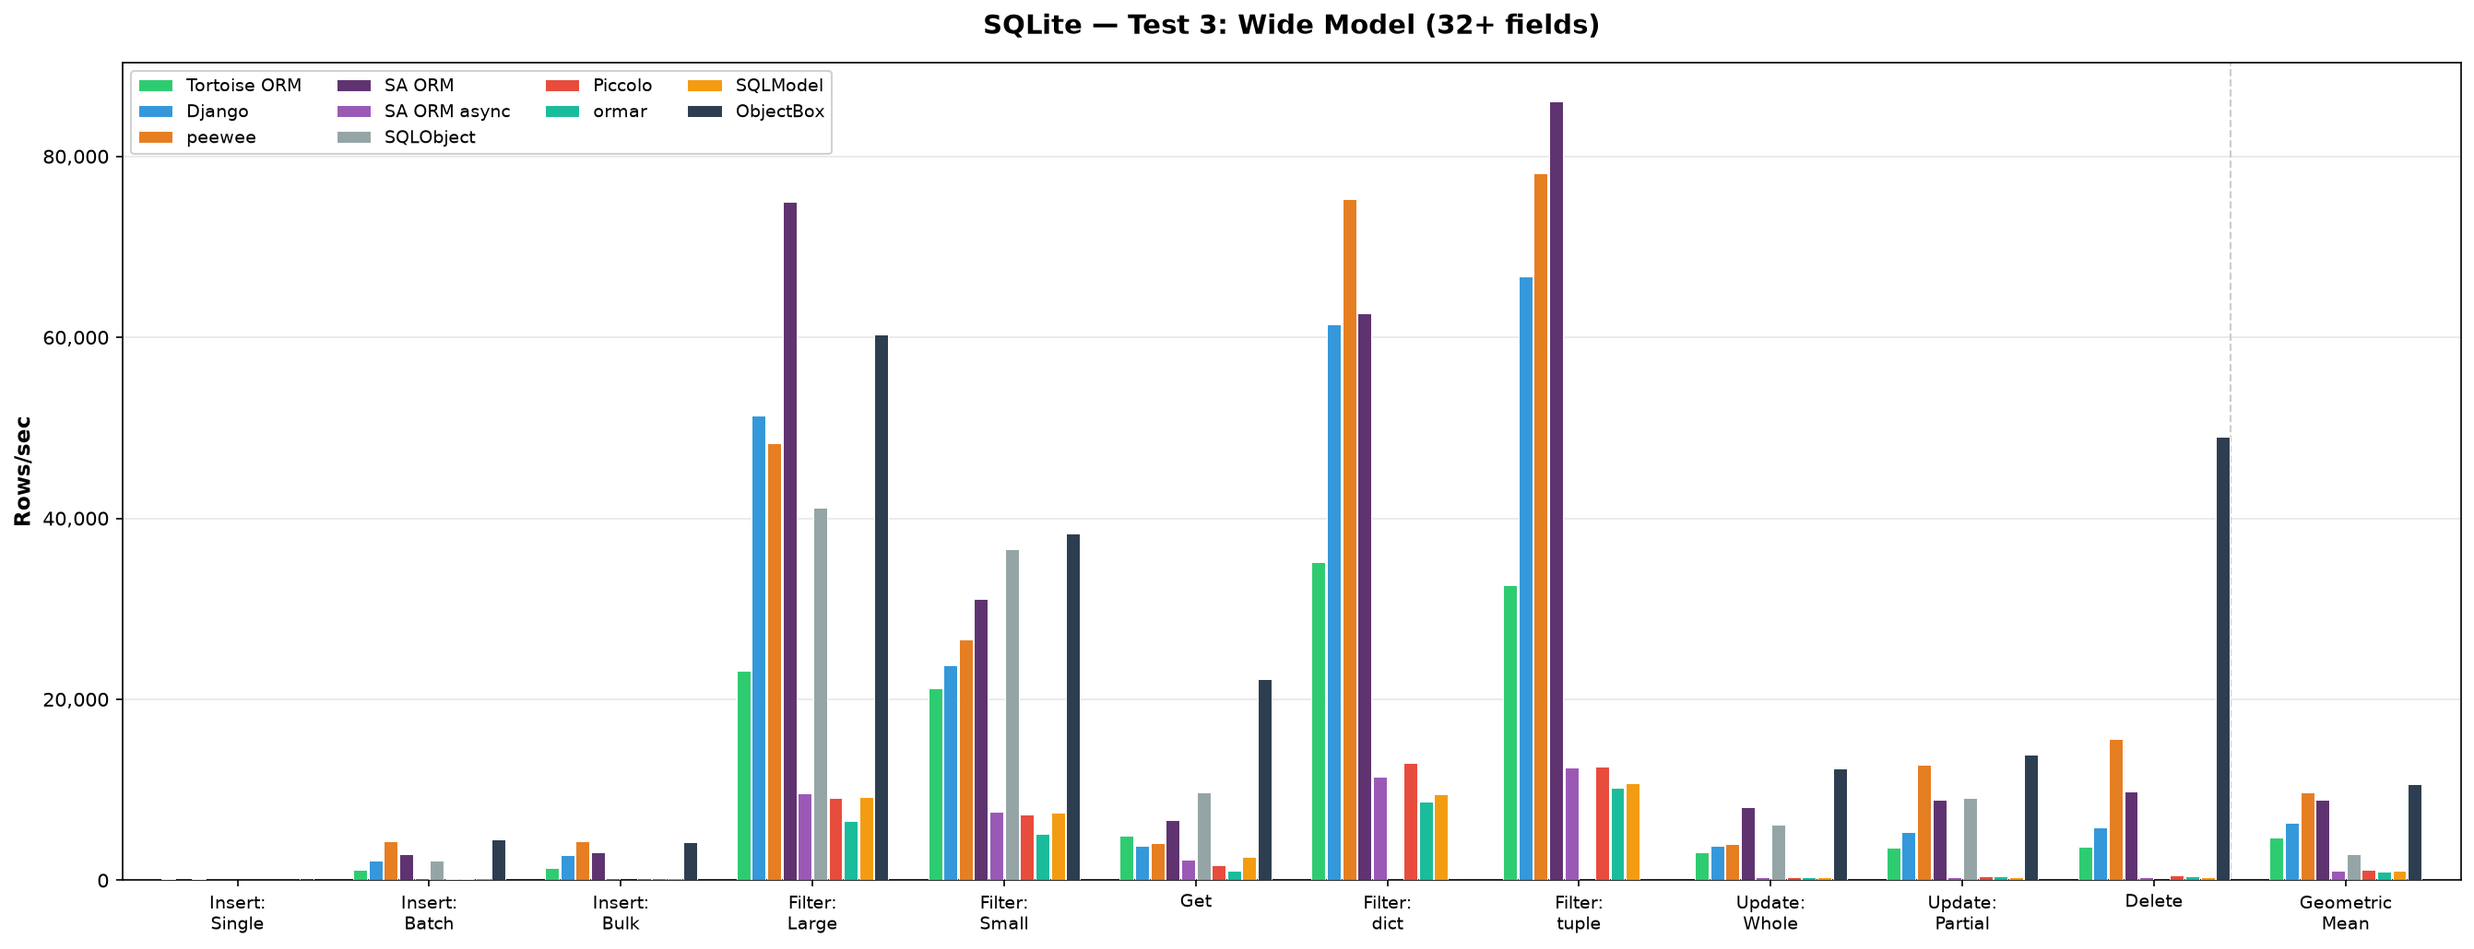
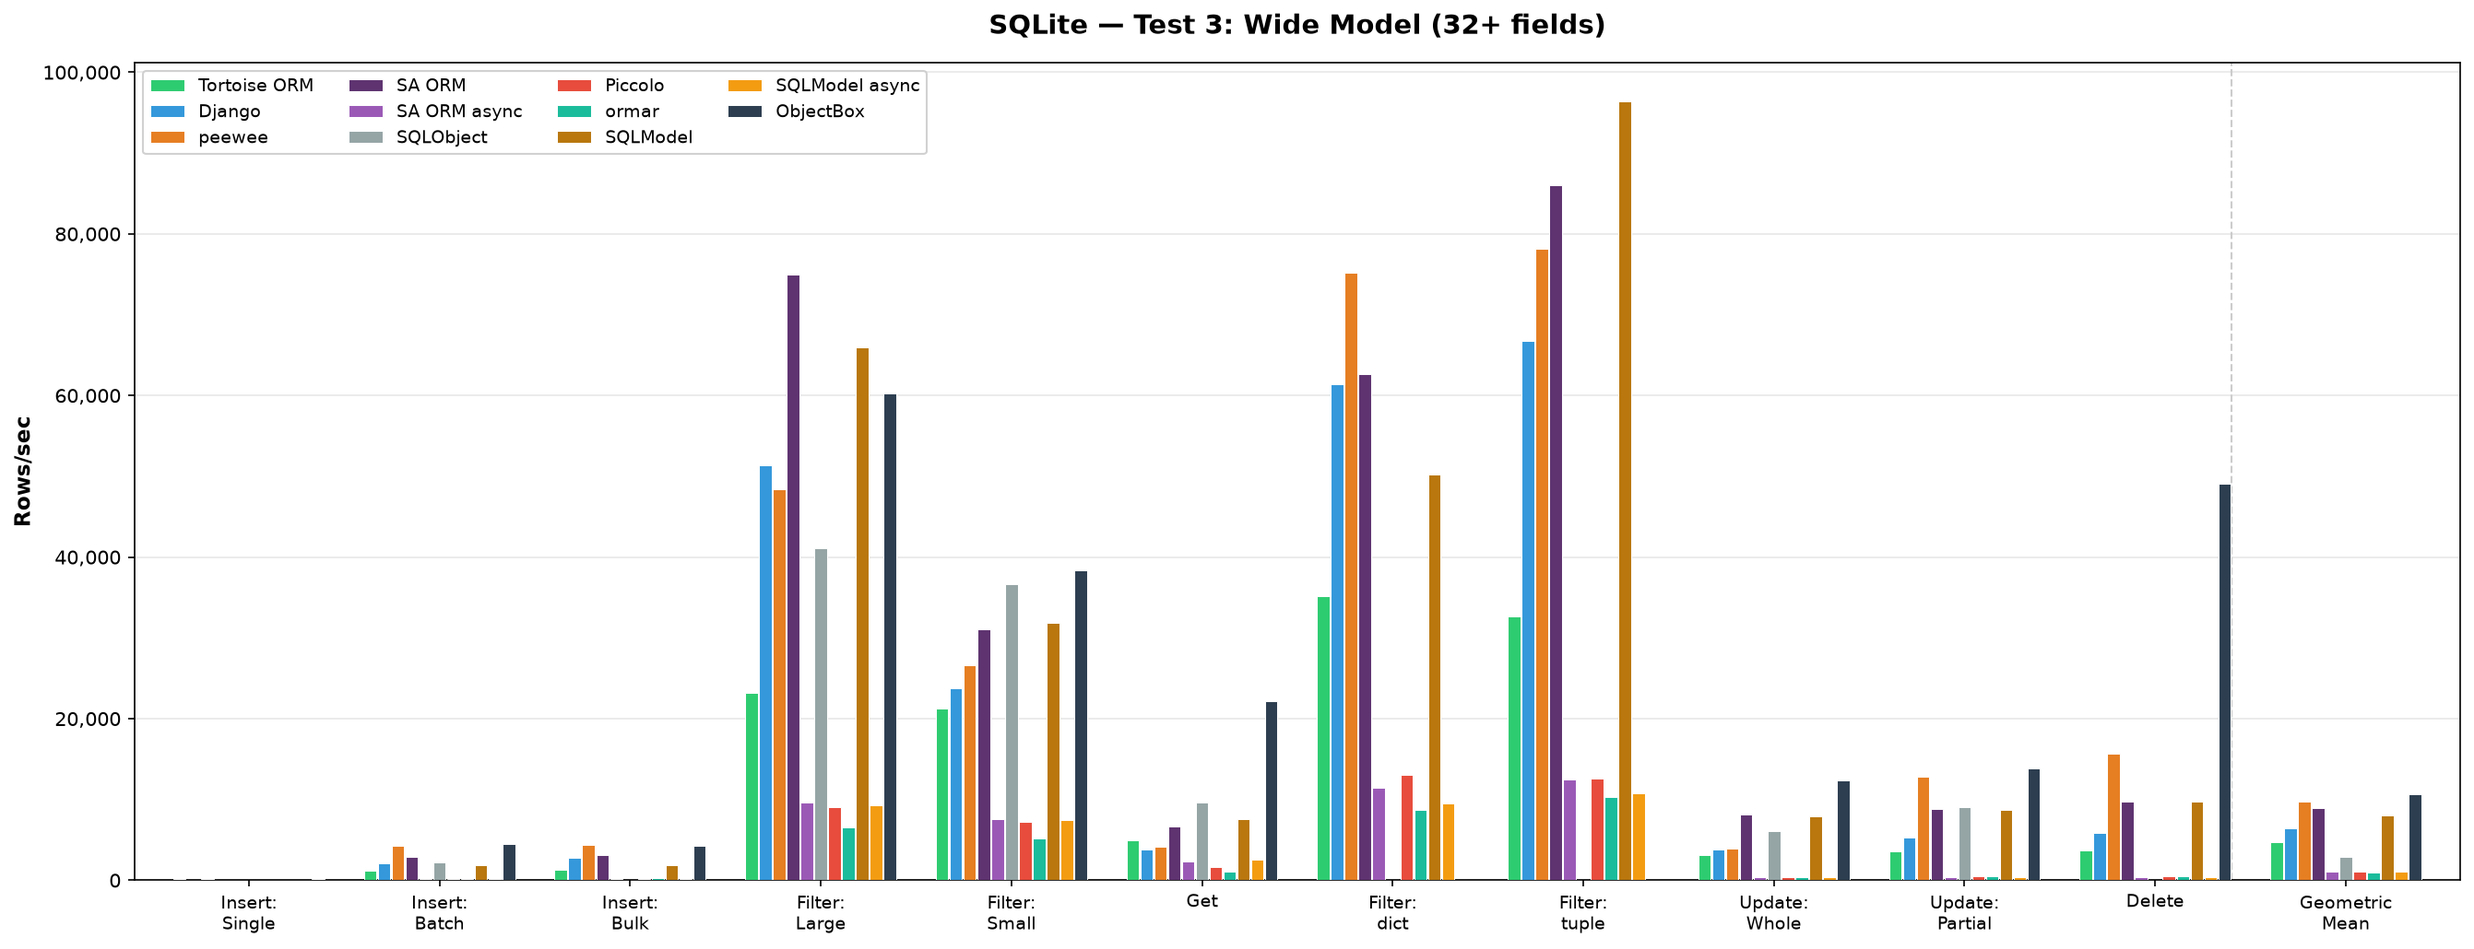
Update SQLite results with sync SQLModel
Sync SQLModel was run separately (5 runs x Tests 1-3) and merged into
the existing 5 runs before taking the medians. PostgreSQL/MySQL tables
now label the async variant "SQLModel async".

diff --git a/README.md b/README.md
@@ -14,12 +14,13 @@ Comprehensive performance benchmarks comparing popular Python ORMs across Postgr
 | [SQLObject](https://github.com/sqlobject/sqlobject) | sync | psycopg2 | mysqlclient | sqlite3 |
 | [Piccolo](https://github.com/piccolo-orm/piccolo) | async | asyncpg | — | aiosqlite |
 | [ormar](https://github.com/collerek/ormar) | async | asyncpg | aiomysql | aiosqlite |
-| [SQLModel](https://github.com/tiangolo/sqlmodel) | async | asyncpg | aiomysql | aiosqlite |
+| [SQLModel](https://github.com/tiangolo/sqlmodel) | sync | psycopg2 | mysqlclient | sqlite3 |
+| [SQLModel (async)](https://github.com/tiangolo/sqlmodel) | async | asyncpg | aiomysql | aiosqlite |
 | [ObjectBox](https://github.com/objectbox/objectbox-python) | sync | — | — | embedded (own storage engine) |
 
 > **Environment:** Python 3.14, macOS (Apple Silicon), 100 iterations per operation.
 > Piccolo does not support MySQL.
-> Sync SQLAlchemy ("SA ORM") is only in the SQLite results so far; the PostgreSQL/MySQL runs predate it.
+> Sync SQLAlchemy ("SA ORM") and sync SQLModel are only in the SQLite results so far; the PostgreSQL/MySQL runs predate them, and their "SQLModel" chart labels refer to SQLModel async.
 > ObjectBox is an embedded object database, not an ORM on top of SQL, so it is only compared in the SQLite runs. It uses the unreleased 5.0.0b1 beta with its experimental FlatBuffers codegen for writes and reads enabled (`OBX_CODEGEN=0` disables it). Differences to the SQL ORMs: Test 2 uses plain indexed ids (the Python binding has no relations), Test 3 stores decimals as strings, JSON as JSON strings (like the SQL ORMs store it as text) and leaves "nullable" columns unset (no NULL support), Filter: dict/tuple are not supported (no projection API), and Update: Partial writes the whole object. Its geometric mean covers 9 operations.
 
 ## Operations
@@ -60,7 +61,7 @@ PostgreSQL 17 in Docker. Driver: `asyncpg` for async ORMs, `psycopg2` for sync O
 
 ![PostgreSQL Test 1](images/pg_test1.png)
 
-| Operation | Django | peewee | SA ORM async | SQLObject | Tortoise ORM | Piccolo | ormar | SQLModel | Best |
+| Operation | Django | peewee | SA ORM async | SQLObject | Tortoise ORM | Piccolo | ormar | SQLModel async | Best |
 |-----------|--------|--------|--------------|-----------|--------------|---------|-------|----------|------|
 | Insert: Single | 776 | 651 | 584 | 699 | **3,455** | 3,240 | 283 | 540 | Tortoise ORM |
 | Insert: Batch | 2,069 | 2,418 | 1,154 | 1,575 | **14,033** | 12,138 | 1,048 | 1,081 | Tortoise ORM |
@@ -79,7 +80,7 @@ PostgreSQL 17 in Docker. Driver: `asyncpg` for async ORMs, `psycopg2` for sync O
 
 ![PostgreSQL Test 2](images/pg_test2.png)
 
-| Operation | Django | peewee | SA ORM async | SQLObject | Tortoise ORM | Piccolo | ormar | SQLModel | Best |
+| Operation | Django | peewee | SA ORM async | SQLObject | Tortoise ORM | Piccolo | ormar | SQLModel async | Best |
 |-----------|--------|--------|--------------|-----------|--------------|---------|-------|----------|------|
 | Insert: Single | 765 | 822 | 564 | 517 | **3,350** | 3,075 | 264 | 521 | Tortoise ORM |
 | Insert: Batch | 2,654 | 2,477 | 1,184 | 1,140 | **12,355** | 8,785 | 1,067 | 1,061 | Tortoise ORM |
@@ -98,7 +99,7 @@ PostgreSQL 17 in Docker. Driver: `asyncpg` for async ORMs, `psycopg2` for sync O
 
 ![PostgreSQL Test 3](images/pg_test3.png)
 
-| Operation | Django | peewee | SA ORM async | SQLObject | Tortoise ORM | Piccolo | ormar | SQLModel | Best |
+| Operation | Django | peewee | SA ORM async | SQLObject | Tortoise ORM | Piccolo | ormar | SQLModel async | Best |
 |-----------|--------|--------|--------------|-----------|--------------|---------|-------|----------|------|
 | Insert: Single | 660 | 712 | 555 | 683 | 1,560 | **2,761** | 177 | 507 | Piccolo |
 | Insert: Batch | 1,580 | 1,338 | 1,137 | 1,280 | **8,077** | 4,627 | 542 | 953 | Tortoise ORM |
@@ -127,7 +128,7 @@ MySQL 8 in Docker. Driver: `asyncmy` for Tortoise, `aiomysql` for SA async / orm
 
 ![MySQL Test 1](images/mysql_test1.png)
 
-| Operation | Django | peewee | SA ORM async | SQLObject | Tortoise ORM | ormar | SQLModel | Best |
+| Operation | Django | peewee | SA ORM async | SQLObject | Tortoise ORM | ormar | SQLModel async | Best |
 |-----------|--------|--------|--------------|-----------|--------------|-------|----------|------|
 | Insert: Single | 460 | 475 | 1,260 | 386 | **2,226** | 1,218 | 1,198 | Tortoise ORM |
 | Insert: Batch | 1,685 | 3,403 | 4,425 | 1,743 | **10,352** | 3,903 | 3,639 | Tortoise ORM |
@@ -146,7 +147,7 @@ MySQL 8 in Docker. Driver: `asyncmy` for Tortoise, `aiomysql` for SA async / orm
 
 ![MySQL Test 2](images/mysql_test2.png)
 
-| Operation | Django | peewee | SA ORM async | SQLObject | Tortoise ORM | ormar | SQLModel | Best |
+| Operation | Django | peewee | SA ORM async | SQLObject | Tortoise ORM | ormar | SQLModel async | Best |
 |-----------|--------|--------|--------------|-----------|--------------|-------|----------|------|
 | Insert: Single | 477 | 525 | 1,173 | 399 | **1,777** | 952 | 1,063 | Tortoise ORM |
 | Insert: Batch | 2,458 | 3,374 | 4,873 | 1,825 | **8,299** | 3,278 | 3,853 | Tortoise ORM |
@@ -165,7 +166,7 @@ MySQL 8 in Docker. Driver: `asyncmy` for Tortoise, `aiomysql` for SA async / orm
 
 ![MySQL Test 3](images/mysql_test3.png)
 
-| Operation | Django | peewee | SA ORM async | SQLObject | Tortoise ORM | ormar | SQLModel | Best |
+| Operation | Django | peewee | SA ORM async | SQLObject | Tortoise ORM | ormar | SQLModel async | Best |
 |-----------|--------|--------|--------------|-----------|--------------|-------|----------|------|
 | Insert: Single | 368 | 366 | 1,318 | 342 | **1,331** | 703 | 1,071 | Tortoise ORM |
 | Insert: Batch | 1,583 | 2,076 | 4,225 | 1,372 | **4,384** | 860 | 2,405 | Tortoise ORM |
@@ -196,58 +197,58 @@ SQLite on local filesystem (`/tmp/db.sqlite3`). This benchmark is inherently sin
 
 ![SQLite Test 1](images/sqlite_test1.png)
 
-| Operation | Django | peewee | SA ORM | SA ORM async | SQLObject | Tortoise ORM | Piccolo | ormar | SQLModel | ObjectBox | Best |
-|-----------|--------|--------|--------|--------------|-----------|--------------|---------|-------|----------|-----------|------|
-| Insert: Single | 53 | 158 | 52 | 49 | 53 | 157 | 49 | 46 | 47 | **239** | ObjectBox |
-| Insert: Batch | 2,772 | 5,825 | 3,098 | 218 | 2,750 | 1,378 | 180 | 217 | 210 | **8,014** | ObjectBox |
-| Insert: Bulk | 3,326 | 7,367 | 3,370 | 219 | — | 1,519 | 220 | 278 | 211 | **10,394** | ObjectBox |
-| Filter: Large | 168,124 | **223,398** | 184,779 | 36,637 | 81,378 | 49,837 | 41,350 | 21,943 | 32,064 | 215,306 | peewee |
-| Filter: Small | 57,232 | 84,363 | 54,789 | 19,226 | 67,073 | 46,862 | 17,673 | 12,486 | 17,518 | **141,318** | ObjectBox |
-| Get | 7,217 | 12,060 | 8,395 | 3,537 | 14,983 | 8,655 | 2,396 | 1,495 | 3,158 | **68,900** | ObjectBox |
-| Filter: dict | 240,416 | **317,831** | 171,952 | 43,073 | — | 96,732 | 52,798 | 32,928 | 38,019 | — | peewee |
-| Filter: tuple | 248,679 | **316,902** | 275,307 | 45,648 | — | 90,995 | 51,600 | 35,123 | 48,002 | — | peewee |
-| Update: Whole | 5,480 | 8,567 | 8,658 | 384 | 6,218 | 3,242 | 536 | 448 | 384 | **15,724** | ObjectBox |
-| Update: Partial | 5,801 | 13,429 | 9,410 | 384 | 9,320 | 3,693 | 536 | 448 | 384 | **30,269** | ObjectBox |
-| Delete | 6,050 | 15,681 | 10,010 | 385 | 53 | 3,827 | 539 | 452 | 388 | **63,098** | ObjectBox |
-| **Geometric Mean** | 11,318 | 20,582 | 13,001 | 1,800 | 3,721 | 7,194 | 1,937 | 1,546 | 1,718 | **22,092** | **ObjectBox** |
+| Operation | Django | peewee | SA ORM | SA ORM async | SQLObject | Tortoise ORM | Piccolo | ormar | SQLModel | SQLModel async | ObjectBox | Best |
+|-----------|--------|--------|--------|--------------|-----------|--------------|---------|-------|----------|----------------|-----------|------|
+| Insert: Single | 53 | 158 | 52 | 49 | 53 | 157 | 49 | 46 | 51 | 47 | **239** | ObjectBox |
+| Insert: Batch | 2,772 | 5,825 | 3,098 | 218 | 2,750 | 1,378 | 180 | 217 | 2,400 | 210 | **8,014** | ObjectBox |
+| Insert: Bulk | 3,326 | 7,367 | 3,370 | 219 | — | 1,519 | 220 | 278 | 2,411 | 211 | **10,394** | ObjectBox |
+| Filter: Large | 168,124 | **223,398** | 184,779 | 36,637 | 81,378 | 49,837 | 41,350 | 21,943 | 178,603 | 32,064 | 215,306 | peewee |
+| Filter: Small | 57,232 | 84,363 | 54,789 | 19,226 | 67,073 | 46,862 | 17,673 | 12,486 | 54,030 | 17,518 | **141,318** | ObjectBox |
+| Get | 7,217 | 12,060 | 8,395 | 3,537 | 14,983 | 8,655 | 2,396 | 1,495 | 9,616 | 3,158 | **68,900** | ObjectBox |
+| Filter: dict | 240,416 | **317,831** | 171,952 | 43,073 | — | 96,732 | 52,798 | 32,928 | 136,220 | 38,019 | — | peewee |
+| Filter: tuple | 248,679 | 316,902 | 275,307 | 45,648 | — | 90,995 | 51,600 | 35,123 | **386,026** | 48,002 | — | SQLModel |
+| Update: Whole | 5,480 | 8,567 | 8,658 | 384 | 6,218 | 3,242 | 536 | 448 | 8,239 | 384 | **15,724** | ObjectBox |
+| Update: Partial | 5,801 | 13,429 | 9,410 | 384 | 9,320 | 3,693 | 536 | 448 | 8,956 | 384 | **30,269** | ObjectBox |
+| Delete | 6,050 | 15,681 | 10,010 | 385 | 53 | 3,827 | 539 | 452 | 9,611 | 388 | **63,098** | ObjectBox |
+| **Geometric Mean** | 11,318 | 20,582 | 13,001 | 1,800 | 3,721 | 7,194 | 1,937 | 1,546 | 12,360 | 1,718 | **22,092** | **ObjectBox** |
 
 ### Test 2: FK Relations
 
 ![SQLite Test 2](images/sqlite_test2.png)
 
-| Operation | Django | peewee | SA ORM | SA ORM async | SQLObject | Tortoise ORM | Piccolo | ormar | SQLModel | ObjectBox | Best |
-|-----------|--------|--------|--------|--------------|-----------|--------------|---------|-------|----------|-----------|------|
-| Insert: Single | 53 | 157 | 52 | 47 | 53 | 157 | 49 | 47 | 47 | **231** | ObjectBox |
-| Insert: Batch | 2,701 | 5,756 | 2,741 | 216 | 2,703 | 1,362 | 180 | 216 | 207 | **7,498** | ObjectBox |
-| Insert: Bulk | 3,283 | 7,392 | 2,978 | 217 | — | 1,520 | 218 | 397 | 210 | **9,715** | ObjectBox |
-| Filter: Large | 157,143 | 196,017 | 149,434 | 31,279 | 78,336 | 49,446 | 38,075 | 19,964 | 26,665 | **207,817** | ObjectBox |
-| Filter: Small | 50,730 | 82,186 | 41,612 | 17,365 | 66,118 | 44,013 | 18,150 | 11,223 | 15,023 | **131,230** | ObjectBox |
-| Get | 6,868 | 10,950 | 6,928 | 3,136 | 14,730 | 9,254 | 2,339 | 1,382 | 3,046 | **66,318** | ObjectBox |
-| Filter: dict | 215,771 | **291,237** | 140,742 | 41,473 | — | 107,600 | 54,752 | 32,073 | 37,116 | — | peewee |
-| Filter: tuple | 223,660 | **290,551** | 204,086 | 44,436 | — | 99,757 | 50,484 | 32,249 | 46,358 | — | peewee |
-| Update: Whole | 5,328 | 8,096 | 7,919 | 382 | 6,214 | 3,367 | 455 | 390 | 385 | **15,674** | ObjectBox |
-| Update: Partial | 5,789 | 13,200 | 8,573 | 383 | 9,531 | 3,798 | 455 | 448 | 384 | **30,200** | ObjectBox |
-| Delete | 2,003 | 15,664 | 2,163 | 293 | 53 | 3,735 | 456 | 451 | 385 | **60,834** | ObjectBox |
-| **Geometric Mean** | 9,757 | 19,634 | 9,768 | 1,679 | 3,686 | 7,344 | 1,839 | 1,522 | 1,648 | **21,231** | **ObjectBox** |
+| Operation | Django | peewee | SA ORM | SA ORM async | SQLObject | Tortoise ORM | Piccolo | ormar | SQLModel | SQLModel async | ObjectBox | Best |
+|-----------|--------|--------|--------|--------------|-----------|--------------|---------|-------|----------|----------------|-----------|------|
+| Insert: Single | 53 | 157 | 52 | 47 | 53 | 157 | 49 | 47 | 52 | 47 | **231** | ObjectBox |
+| Insert: Batch | 2,701 | 5,756 | 2,741 | 216 | 2,703 | 1,362 | 180 | 216 | 2,350 | 207 | **7,498** | ObjectBox |
+| Insert: Bulk | 3,283 | 7,392 | 2,978 | 217 | — | 1,520 | 218 | 397 | 2,378 | 210 | **9,715** | ObjectBox |
+| Filter: Large | 157,143 | 196,017 | 149,434 | 31,279 | 78,336 | 49,446 | 38,075 | 19,964 | 168,302 | 26,665 | **207,817** | ObjectBox |
+| Filter: Small | 50,730 | 82,186 | 41,612 | 17,365 | 66,118 | 44,013 | 18,150 | 11,223 | 49,403 | 15,023 | **131,230** | ObjectBox |
+| Get | 6,868 | 10,950 | 6,928 | 3,136 | 14,730 | 9,254 | 2,339 | 1,382 | 9,157 | 3,046 | **66,318** | ObjectBox |
+| Filter: dict | 215,771 | **291,237** | 140,742 | 41,473 | — | 107,600 | 54,752 | 32,073 | 129,800 | 37,116 | — | peewee |
+| Filter: tuple | 223,660 | 290,551 | 204,086 | 44,436 | — | 99,757 | 50,484 | 32,249 | **383,977** | 46,358 | — | SQLModel |
+| Update: Whole | 5,328 | 8,096 | 7,919 | 382 | 6,214 | 3,367 | 455 | 390 | 8,093 | 385 | **15,674** | ObjectBox |
+| Update: Partial | 5,789 | 13,200 | 8,573 | 383 | 9,531 | 3,798 | 455 | 448 | 11,573 | 384 | **30,200** | ObjectBox |
+| Delete | 2,003 | 15,664 | 2,163 | 293 | 53 | 3,735 | 456 | 451 | 9,928 | 385 | **60,834** | ObjectBox |
+| **Geometric Mean** | 9,757 | 19,634 | 9,768 | 1,679 | 3,686 | 7,344 | 1,839 | 1,522 | 12,353 | 1,648 | **21,231** | **ObjectBox** |
 
 ### Test 3: Wide Model (32+ fields)
 
 ![SQLite Test 3](images/sqlite_test3.png)
 
-| Operation | Django | peewee | SA ORM | SA ORM async | SQLObject | Tortoise ORM | Piccolo | ormar | SQLModel | ObjectBox | Best |
-|-----------|--------|--------|--------|--------------|-----------|--------------|---------|-------|----------|-----------|------|
-| Insert: Single | 52 | 155 | 53 | 49 | 53 | 155 | 48 | 44 | 48 | **203** | ObjectBox |
-| Insert: Batch | 2,139 | 4,270 | 2,842 | 216 | 2,209 | 1,157 | 179 | 146 | 199 | **4,540** | ObjectBox |
-| Insert: Bulk | 2,820 | **4,344** | 3,135 | 217 | — | 1,321 | 213 | 258 | 202 | 4,254 | peewee |
-| Filter: Large | 51,379 | 48,347 | **74,935** | 9,642 | 41,141 | 23,165 | 9,109 | 6,545 | 9,243 | 60,274 | SA ORM |
-| Filter: Small | 23,787 | 26,582 | 31,058 | 7,568 | 36,644 | 21,260 | 7,274 | 5,126 | 7,465 | **38,353** | ObjectBox |
-| Get | 3,839 | 4,115 | 6,690 | 2,327 | 9,681 | 4,905 | 1,694 | 1,030 | 2,579 | **22,198** | ObjectBox |
-| Filter: dict | 61,394 | **75,234** | 62,682 | 11,453 | — | 35,142 | 13,020 | 8,723 | 9,532 | — | peewee |
-| Filter: tuple | 66,704 | 78,157 | **86,057** | 12,424 | — | 32,615 | 12,584 | 10,257 | 10,777 | — | SA ORM |
-| Update: Whole | 3,834 | 3,975 | 8,121 | 384 | 6,119 | 3,111 | 394 | 383 | 383 | **12,323** | ObjectBox |
-| Update: Partial | 5,337 | 12,805 | 8,859 | 381 | 9,058 | 3,569 | 451 | 449 | 382 | **13,844** | ObjectBox |
-| Delete | 5,863 | 15,659 | 9,788 | 381 | 53 | 3,669 | 537 | 452 | 380 | **49,045** | ObjectBox |
-| **Geometric Mean** | 6,392 | 9,695 | 8,899 | 1,107 | 2,899 | 4,733 | 1,113 | 919 | 1,063 | **10,596** | **ObjectBox** |
+| Operation | Django | peewee | SA ORM | SA ORM async | SQLObject | Tortoise ORM | Piccolo | ormar | SQLModel | SQLModel async | ObjectBox | Best |
+|-----------|--------|--------|--------|--------------|-----------|--------------|---------|-------|----------|----------------|-----------|------|
+| Insert: Single | 52 | 155 | 53 | 49 | 53 | 155 | 48 | 44 | 51 | 48 | **203** | ObjectBox |
+| Insert: Batch | 2,139 | 4,270 | 2,842 | 216 | 2,209 | 1,157 | 179 | 146 | 1,884 | 199 | **4,540** | ObjectBox |
+| Insert: Bulk | 2,820 | **4,344** | 3,135 | 217 | — | 1,321 | 213 | 258 | 1,913 | 202 | 4,254 | peewee |
+| Filter: Large | 51,379 | 48,347 | **74,935** | 9,642 | 41,141 | 23,165 | 9,109 | 6,545 | 65,962 | 9,243 | 60,274 | SA ORM |
+| Filter: Small | 23,787 | 26,582 | 31,058 | 7,568 | 36,644 | 21,260 | 7,274 | 5,126 | 31,863 | 7,465 | **38,353** | ObjectBox |
+| Get | 3,839 | 4,115 | 6,690 | 2,327 | 9,681 | 4,905 | 1,694 | 1,030 | 7,516 | 2,579 | **22,198** | ObjectBox |
+| Filter: dict | 61,394 | **75,234** | 62,682 | 11,453 | — | 35,142 | 13,020 | 8,723 | 50,228 | 9,532 | — | peewee |
+| Filter: tuple | 66,704 | 78,157 | 86,057 | 12,424 | — | 32,615 | 12,584 | 10,257 | **96,384** | 10,777 | — | SQLModel |
+| Update: Whole | 3,834 | 3,975 | 8,121 | 384 | 6,119 | 3,111 | 394 | 383 | 7,943 | 383 | **12,323** | ObjectBox |
+| Update: Partial | 5,337 | 12,805 | 8,859 | 381 | 9,058 | 3,569 | 451 | 449 | 8,665 | 382 | **13,844** | ObjectBox |
+| Delete | 5,863 | 15,659 | 9,788 | 381 | 53 | 3,669 | 537 | 452 | 9,715 | 380 | **49,045** | ObjectBox |
+| **Geometric Mean** | 6,392 | 9,695 | 8,899 | 1,107 | 2,899 | 4,733 | 1,113 | 919 | 8,067 | 1,063 | **10,596** | **ObjectBox** |
 
 ---
 
@@ -263,15 +264,15 @@ Tortoise ORM wins every test by a wide margin (2x over the runner-up). The `asyn
 
 ### SQLite — Sync ORMs are faster
 
-On SQLite, async overhead hurts more than it helps — there is no concurrency to exploit due to SQLite's single-writer lock. Sync ORMs (peewee, SA ORM, Django, SQLObject) avoid the `aiosqlite` polling overhead and win handily. Among the SQL ORMs, peewee has the best geometric mean in all three tests, followed by sync SA ORM and Django (nearly tied on Test 2). Sync SA ORM is 2–8x faster than SA ORM async on reads and 7–26x on batch/bulk inserts, updates and deletes (single inserts, one synced commit each, are about the same); on the wide model (Test 3) it leads Filter: Large, Filter: tuple and Update: Whole among the SQL ORMs, and SQLObject leads Filter: Small and Get. Tortoise ORM remains the fastest async ORM on SQLite.
+On SQLite, async overhead hurts more than it helps — there is no concurrency to exploit due to SQLite's single-writer lock. Sync ORMs (peewee, SA ORM, SQLModel, Django, SQLObject) avoid the `aiosqlite` polling overhead and win handily. Among the SQL ORMs, peewee has the best geometric mean in all three tests, followed by sync SA ORM and sync SQLModel (SQLModel is ahead on Test 2, where SA ORM's model maps the relationships, which slows down its Delete). The sync variants of SA ORM and SQLModel are 2–9x faster than their async variants on reads and 7–26x on batch/bulk inserts, updates and deletes (single inserts, one synced commit each, are about the same). Sync SQLModel has the fastest Filter: tuple in all three tests; on the wide model (Test 3), SA ORM leads Filter: Large and Update: Whole among the SQL ORMs, and SQLObject leads Filter: Small and Get. Tortoise ORM remains the fastest async ORM on SQLite.
 
 ObjectBox (embedded object database, experimental codegen for writes and reads) has the best geometric mean in all three tests (22,092 vs peewee's 20,582, 21,231 vs 19,634 and 10,596 vs 9,695), though its mean leaves out Filter: dict/tuple, peewee's strongest operations. It wins Get in all three tests by 2.3–4.6x over the runner-up and Filter: Small by 1.05–1.7x. Filter: Large is close to peewee on Test 1 (215k vs 223k rows/sec), ahead on Test 2, and behind SA ORM on Test 3 (60k vs 75k). It wins every write operation except Insert: Bulk on Test 3, where peewee is 2% ahead. ObjectBox's write results vary between runs much more than the SQL ORMs': individual runs are either at a typical level or 2–4x slower (e.g. Delete on Test 1: 22,658 in one run, 61,000–64,000 in the other four), while peewee's and SA ORM's mostly stayed within a few percent. The medians reflect the typical level.
 
 ### Key takeaways
 
 - **For PostgreSQL/MySQL production workloads**: Tortoise ORM and Piccolo (PG only) offer the best throughput
-- **For SQLite/local development**: peewee, sync SA ORM and Django are faster due to lower async overhead
-- **SA ORM async / SQLModel**: Strong on reads but consistently slow on writes due to Session/UoW overhead (on SQLite, the sync SA ORM doesn't share this write penalty). SQLModel tracks closely with SA ORM async (expected — it's a thin wrapper around SQLAlchemy)
+- **For SQLite/local development**: peewee and the sync variants of SA ORM and SQLModel are fastest, followed by Django; async adds overhead without any concurrency to gain
+- **SA ORM async / SQLModel async**: Strong on reads but consistently slow on writes due to Session/UoW overhead (on SQLite, their sync variants don't share this write penalty). SQLModel tracks closely with SA ORM (expected — it's a thin wrapper around SQLAlchemy)
 - **ormar**: Pydantic validation overhead causes significant slowdown, especially on wide models (Test 3)
 - **SQLObject**: Missing bulk insert and dict/tuple filter operations, but surprisingly fast on single-row SQLite operations
 - **ObjectBox** (SQLite runs only): fastest Get and small filters, wins nearly all writes, best geometric mean (without the dict/tuple operations)
